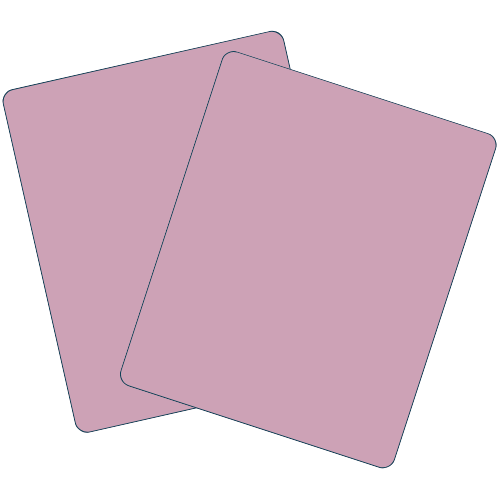
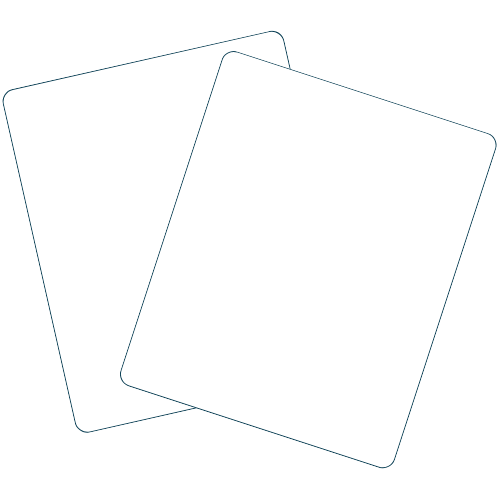
changed color pink to white; added autofocus to translation; added placeholder to vocabulary; added example vocabulary

diff --git a/Projekt/vokabeln.html b/Projekt/vokabeln.html
@@ -18,9 +18,9 @@
                 <button class="vocab_edit">Löschen</button>
                 <button class="vocab_edit">Bearbeiten</button>
                 <br>
-                <input class="vocab_input" type="text" value="Vokabel"> 
+                <input class="vocab_input" type="text" value="cat" disabled> 
                 <br>
-                <input class="vocab_input" type="text" value="Übersetzung">
+                <input class="vocab_input" type="text" value="Katze" disabled>
             </div>
 
             <div class="vocab">
@@ -28,9 +28,19 @@
                 <button class="vocab_edit">Löschen</button>
                 <button class="vocab_edit">Bearbeiten</button>
                 <br>
-                <input class="vocab_input" type="text" value="Vokabel"> 
+                <input class="vocab_input" type="text" value="apple" disabled> 
                 <br>
-                <input class="vocab_input" type="text" value="Übersetzung">
+                <input class="vocab_input" type="text" value="Apfel" disabled>
+            </div>
+
+            <div class="vocab">
+                <!--vocabulary and translation-->
+                <button class="vocab_edit">Löschen</button>
+                <button class="vocab_edit">Bearbeiten</button>
+                <br>
+                <input class="vocab_input" type="text" placeholder="Vokabel eingeben..."> 
+                <br>
+                <input class="vocab_input" type="text" placeholder="Übersetzung eingeben...">
             </div>            
             
             <!--if discard, later vocabulary should move to fill position-->

diff --git a/Projekt/style.css b/Projekt/style.css
@@ -61,7 +61,7 @@ footer{
     margin-top:2%;
 }
 a{
-    color: rgb(205, 162, 182);
+    color: white;
     text-decoration: none;
 }
 #flashcards_img{
@@ -69,12 +69,12 @@ a{
 }
 #translate_img{
     height: 90%;
-    rotate: 45;
+
 }
 #add{
     background-color: rgba(71, 41, 13, 0.235);
     border: rgb(121, 91, 13) 2px solid;
-    color: rgb(205, 162, 182);
+    color: white;
     font-family: 'Courier New', Courier, monospace;
     font-size: 17px;
     text-decoration: none;
@@ -87,7 +87,7 @@ a{
     float: inline-start;
     background-color: rgb(11, 63, 84);
     border: rgb(121, 91, 13) 1px solid;
-    color: rgb(205, 162, 182);
+    color: white;
     font-family: 'Courier New', Courier, monospace;
     font-size: 15px;
     width:98%;
@@ -98,7 +98,7 @@ a{
     float: inline-start;
     background-color: rgba(71, 41, 13, 0.235);
     border: rgb(121, 91, 13) 1.5px dotted;
-    color: rgb(205, 162, 182);
+    color: white;
     font-family: 'Courier New', Courier, monospace;
     font-size: 13px;
     text-decoration: none;
@@ -121,7 +121,7 @@ a{
 .learning_buttons{
     background-color: rgba(71, 41, 13, 0.235);
     border: rgb(121, 91, 13) 1px solid;
-    color: rgb(205, 162, 182);
+    color: white;
     font-family: 'Courier New', Courier, monospace;
     font-size: 13px;
     text-decoration: none;

diff --git a/Projekt/lernmodus_uebersetzen.html b/Projekt/lernmodus_uebersetzen.html
@@ -13,9 +13,9 @@
          </header>
         <main>
             <div class="learning_questionare">
-                <a>Vokabel</a>
+                <a>cat</a>
                 <br>
-                <input class="vocab_input" type="text">
+                <input class="vocab_input" type="text" placeholder="Hier Übersetzung eingeben..." autofocus>
                 <br>
                 <button class="learning_buttons">Antwort überprüfen</button> <!--if checked: right or wrong, the right answer is:xX-->
                 <button class="learning_buttons">Nächste</button>

diff --git a/Projekt/lernmodus_karteikarten.html b/Projekt/lernmodus_karteikarten.html
@@ -13,7 +13,7 @@
          </header>
         <main>
             <div class="learning_questionare">
-                <a>Vokabel</a>
+                <a>cat</a>
                 <br><br>
                 <button class="learning_buttons">Vorherige</button>
                 <button class="learning_buttons">Übersetzung anzeigen</button>
